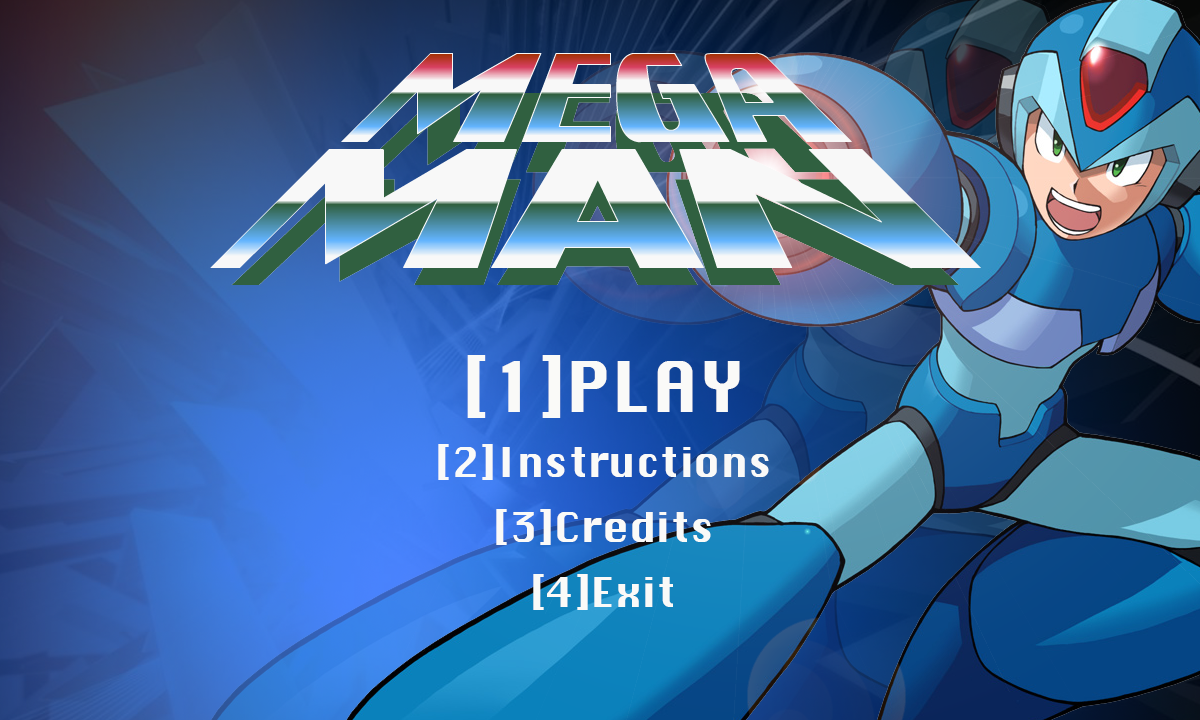
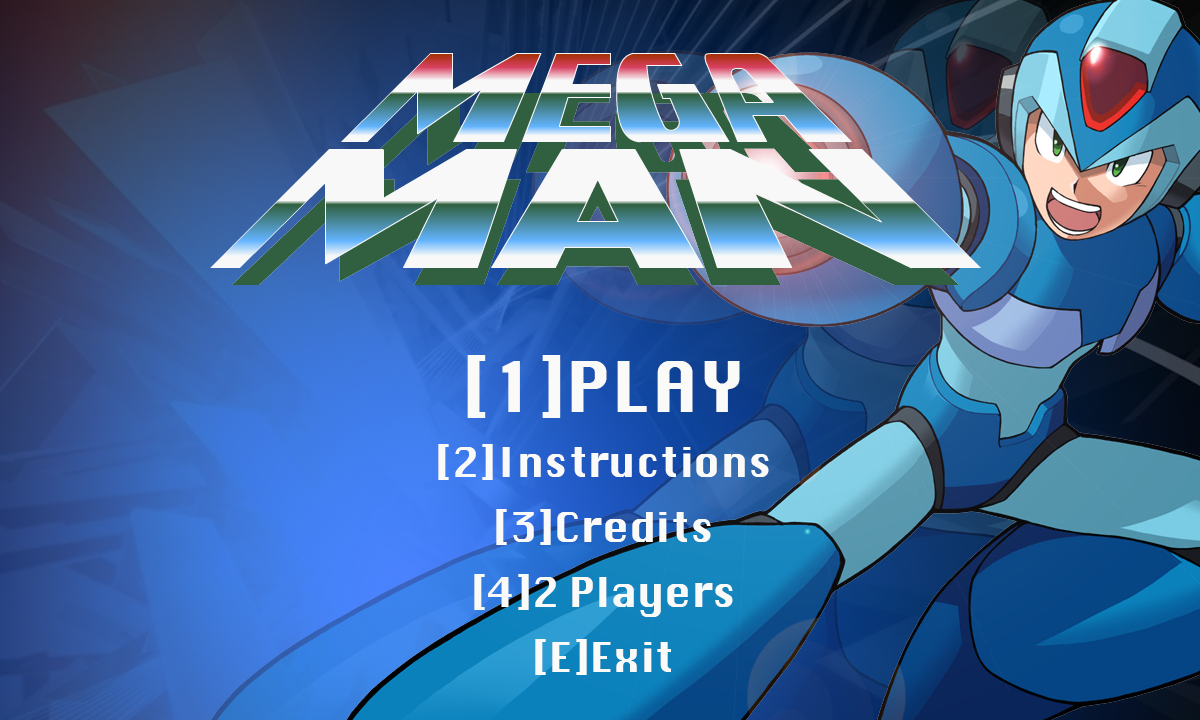
new menu

Changed region(s): [[0.37, 0.7944, 0.6167, 0.8556], [0.4317, 0.8861, 0.555, 0.9472]]

diff --git a/cGame.cpp b/cGame.cpp
@@ -75,6 +75,7 @@ bool cGame::Init()
 	res = Data.LoadImage(IMG_BOSS1, "boss1.png", GL_RGBA);
 	res = Data.LoadImage(IMG_BOSS1SHOT, "bubble.png", GL_RGBA);
 	res = Data.LoadImage(IMG_BOSS2, "boss2.png", GL_RGBA);
+	res = Data.LoadImage(IMG_INST2, "instructions2.png", GL_RGBA);
 
 	//Init Player
 	Player.SetWidthHeight(35, 35);
@@ -256,13 +257,16 @@ bool cGame::Process()
 		if (keys['1']){
 			state = SCREEN_GAME;
 		}
-		if (keys['3']){
+		if (keys['2']){
 			state = SCREEN_INSTRUCTIONS;
 		}
-		if (keys['2']){
+		if (keys['3']){
 			state = SCREEN_CREDITS;
 		}
 		if (keys['4']){
+			state = SCREEN_TWO_PLAYERS;
+		}
+		if (keys['E'] || keys['e']){
 			res = false;
 		}
 	}//END SCREEN_MENU
@@ -276,6 +280,17 @@ bool cGame::Process()
 	else if (state == SCREEN_INSTRUCTIONS){
 		if (keys['5']){
 			state = SCREEN_MENU;
+		}
+		else if (keys['8']){
+			state = SCREEN_INSTRUCTIONS2;
+		}
+	}
+	else if (state == SCREEN_INSTRUCTIONS2){
+		if (keys['5']){
+			state = SCREEN_MENU;
+		}
+		else if (keys['9']){
+			state = SCREEN_INSTRUCTIONS;
 		}
 	}
 
@@ -411,6 +426,7 @@ void cGame::drawImage(int i){
 	if(i==1) glBindTexture(GL_TEXTURE_2D, Data.GetID(IMG_MENU));
 	else if (i == 2) glBindTexture(GL_TEXTURE_2D, Data.GetID(IMG_INST));
 	else if (i == 3)glBindTexture(GL_TEXTURE_2D, Data.GetID(IMG_CREDITS));
+	else if (i == 4)glBindTexture(GL_TEXTURE_2D, Data.GetID(IMG_INST2));
 
 	glMatrixMode(GL_PROJECTION);
 	glPushMatrix();
@@ -490,11 +506,15 @@ void cGame::Render()
 			break;
 			case SCREEN_CREDITS:
 				sprintf(imatge, "credits.png");
-				drawImage(2);
+				drawImage(3);
 				break;
 			case SCREEN_INSTRUCTIONS:
 				sprintf(imatge, "instructions.png");
-				drawImage(3);
+				drawImage(2);
+				break;
+			case SCREEN_INSTRUCTIONS2:
+				sprintf(imatge, "instructions2.png");
+				drawImage(4);
 				break;
 		}
 		OutputDebugString(imatge);

diff --git a/cData.h b/cData.h
@@ -4,7 +4,7 @@
 #include "Globals.h"
 
 //Image array size
-#define NUM_IMG		15
+#define NUM_IMG		16
 
 //Image identifiers
 #define IMG_LEVEL1	0
@@ -25,6 +25,7 @@
 #define IMG_CREDITS		12
 #define IMG_GUI_BURST	13
 #define IMG_GUI_ROUND	14
+#define IMG_INST2		15
 
 
 class cData

diff --git a/cGame.h b/cGame.h
@@ -19,6 +19,8 @@
 #define SCREEN_CREDITS		1
 #define SCREEN_INSTRUCTIONS	2
 #define SCREEN_GAME			3
+#define SCREEN_TWO_PLAYERS  4
+#define SCREEN_INSTRUCTIONS2 5
 
 #define DEAD_TIME	60
 
